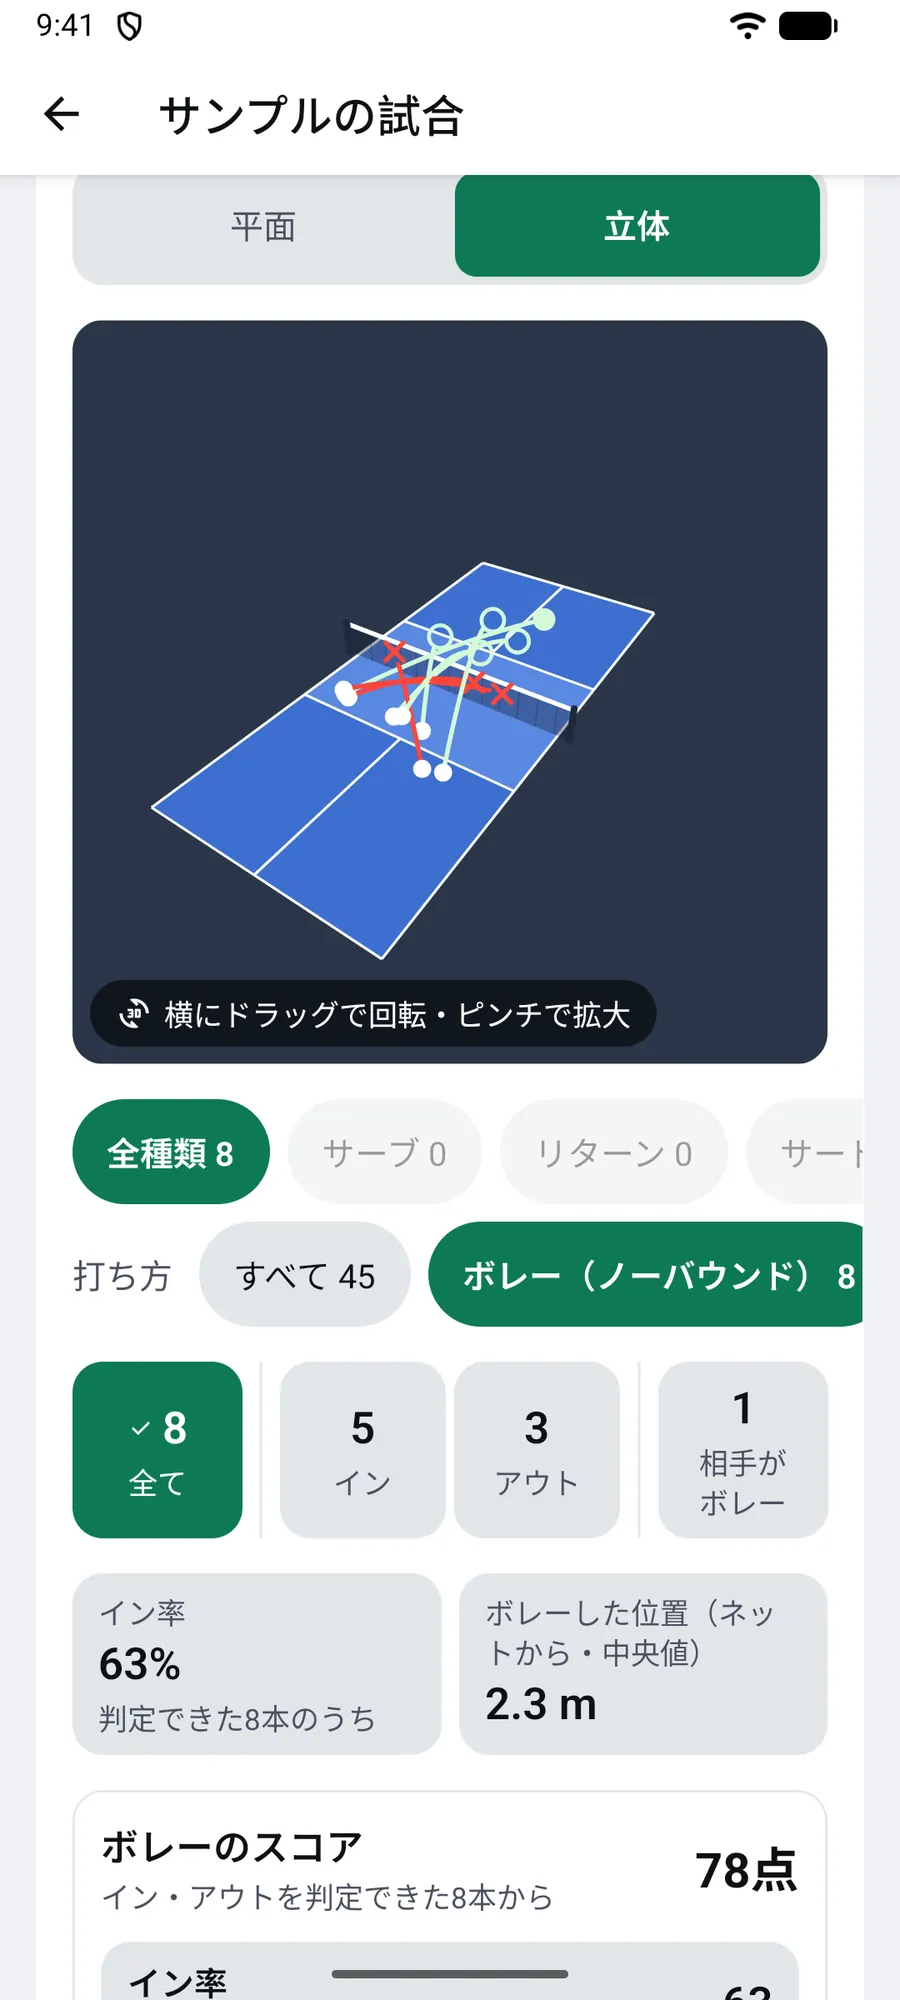
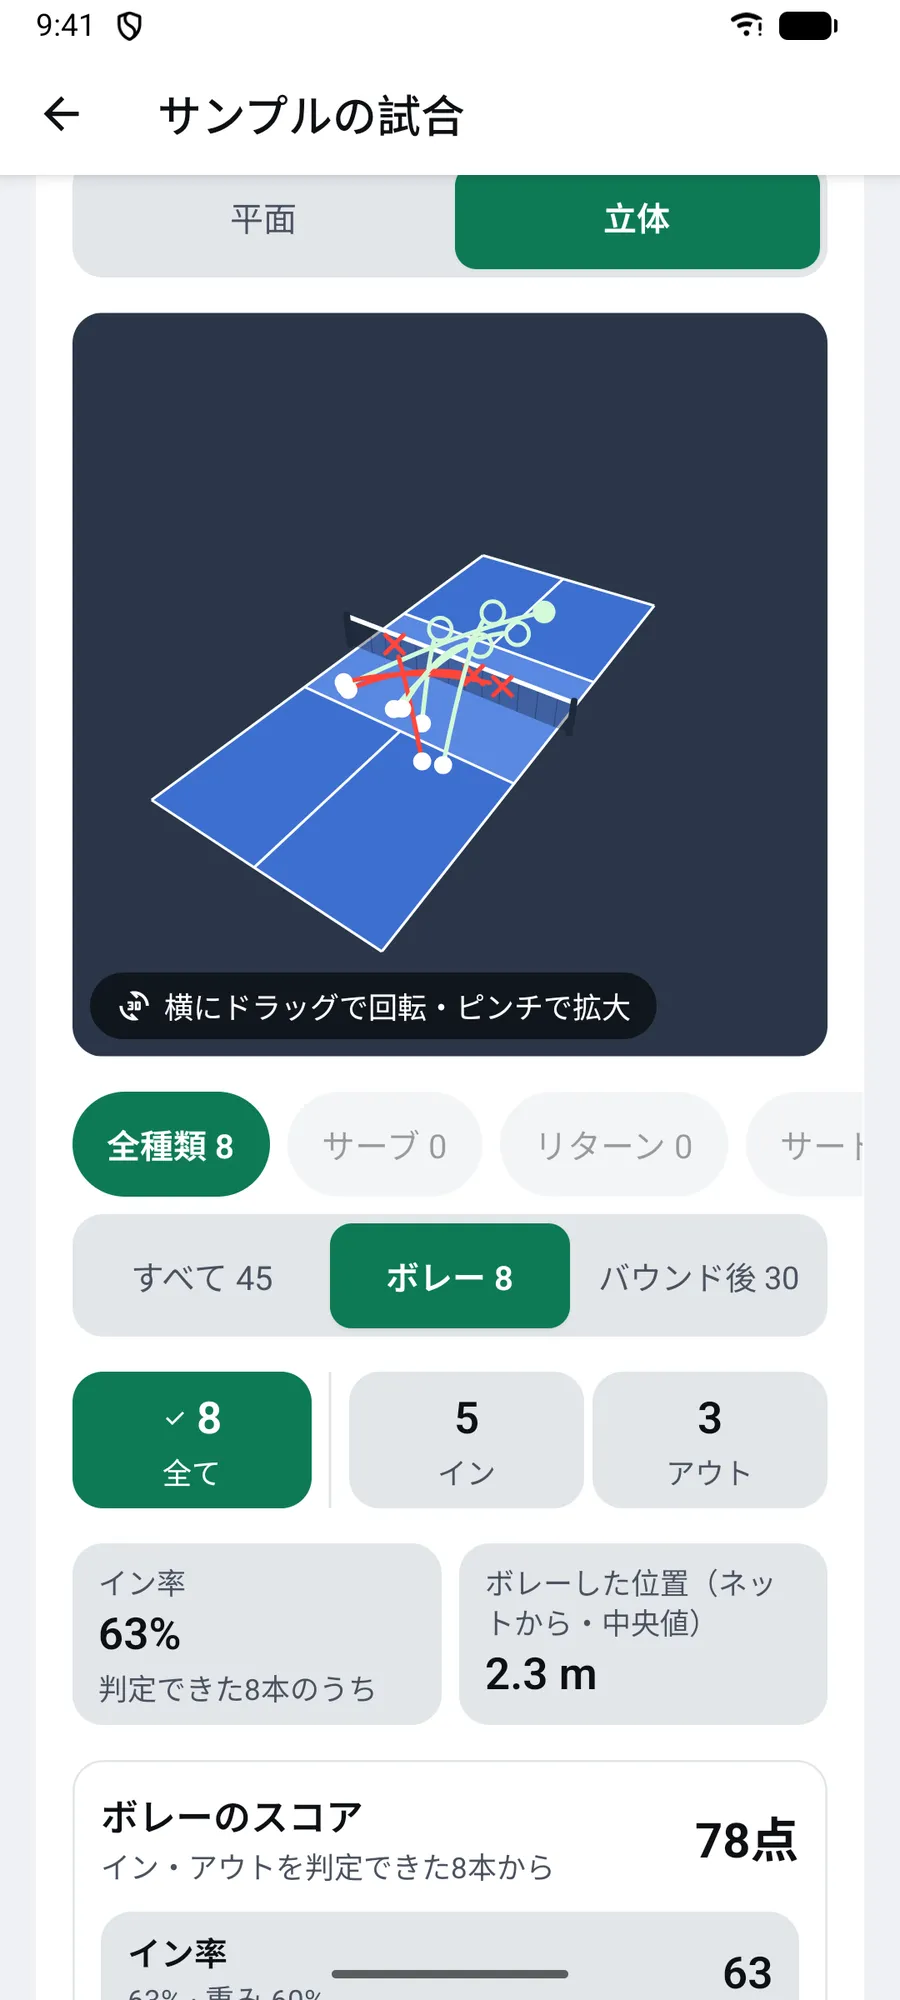
Pickle Up のページの見出しの下の文を「コーチがいなくても、自分の弱点が分かる。試合の動画から点を落としているショットを見つけ、次に練習することまで教えます。」にする。アプリの画像を、打ち方の3つの切り替え・「相手がボレー」なし・スコアの「自分たち／相手」と「勝ち」の新しい画面で撮り直し、共有用の画像も差し替える
Claude-Session: https://claude.ai/code/session_01RcorTwHLSLi3TqpLhpw8hm

diff --git a/ja/apps/pickle-up/index.html b/ja/apps/pickle-up/index.html
@@ -63,7 +63,7 @@
 <div class="wrap hero-grid">
 <div class="hero-copy">
 <h1><span class="phrase">撮るだけで</span><span class="phrase">次の試合が変わる</span></h1>
-<p class="lead">プレー中は、どこで点を落としているか分かりません。Pickle Up が動画からミスの傾向を数字で示し、次に練習することを教えます。</p>
+<p class="lead">コーチがいなくても、自分の弱点が分かる。試合の動画から点を落としているショットを見つけ、次に練習することまで教えます。</p>
 <div class="stores stores-hero"><span class="store"><img src="/images/apps/badges/app-store-ja.svg" alt="App Store からダウンロード" width="131" height="48"></span><span class="store"><img src="/images/apps/badges/google-play-ja.png" alt="Google Play で手に入れよう" width="161" height="48"></span></div><p class="stores-note">近日公開</p>
 </div>
 <div class="hero-media">
@@ -75,7 +75,7 @@
 <div class="wrap">
 <h2 class="section-title">Pickle Up でできること</h2>
 <article class="feature">
-<div class="feature-media"><div class="carousel carousel-single"><div class="carousel-track"><figure class="slide"><div class="phone"><img src="/images/apps/pickle-up/screens/score-ja.webp" alt="試合の画面。11対8のスコアと、読み上げたスコアコールの一覧" width="300" height="667" loading="lazy" decoding="async"></div><figcaption>試合中にコールしたスコアの一覧。11対8、41ラリーの試合です。</figcaption></figure></div></div></div>
+<div class="feature-media"><div class="carousel carousel-single"><div class="carousel-track"><figure class="slide"><div class="phone"><img src="/images/apps/pickle-up/screens/score-ja.webp" alt="試合の画面。自分たち11点・相手8点で勝ちの表示と、読み上げたスコアコールの一覧" width="300" height="667" loading="lazy" decoding="async"></div><figcaption>どちらが自分たちで、勝ったか負けたかがひと目で分かります。下は試合中に読み上げたスコアです。</figcaption></figure></div></div></div>
 <div class="feature-copy">
 <h3><span class="phrase">スコアはアプリが数えて、</span><span class="phrase">声でコールする</span></h3>
 <p>ラリーが終わるたびに「1-0-2」のようにスコアをコールします。サーブの順番もアプリが覚えているので、プレーを止めて数え直すことはありません。終わった試合はスコアと一緒に記録に残ります。</p>

diff --git a/en/apps/pickle-up/index.html b/en/apps/pickle-up/index.html
@@ -63,7 +63,7 @@
 <div class="wrap hero-grid">
 <div class="hero-copy">
 <h1><span class="phrase">Just film it.</span><span class="phrase">Play better next game.</span></h1>
-<p class="lead">Mid-game, you can’t see which shots cost you points. Pickle Up finds them in your video and tells you what to practise.</p>
+<p class="lead">No coach? You’ll still find your weak spots: the shots costing you points, and what to practise next.</p>
 <div class="stores stores-hero"><span class="store"><img src="/images/apps/badges/app-store-en.svg" alt="Download on the App Store" width="144" height="48"></span><span class="store"><img src="/images/apps/badges/google-play-en.png" alt="Get it on Google Play" width="161" height="48"></span></div><p class="stores-note">Coming soon</p>
 </div>
 <div class="hero-media">
@@ -75,7 +75,7 @@
 <div class="wrap">
 <h2 class="section-title">What it does</h2>
 <article class="feature">
-<div class="feature-media"><div class="carousel carousel-single"><div class="carousel-track"><figure class="slide"><div class="phone"><img src="/images/apps/pickle-up/screens/score-en.webp" alt="The match screen, with an 11–8 score and the calls made during the game" width="300" height="667" loading="lazy" decoding="async"></div><figcaption>The calls made during an 11–8 game of 41 rallies.</figcaption></figure></div></div></div>
+<div class="feature-media"><div class="carousel carousel-single"><div class="carousel-track"><figure class="slide"><div class="phone"><img src="/images/apps/pickle-up/screens/score-en.webp" alt="The match screen: won 11–8, with the calls made during the game" width="300" height="667" loading="lazy" decoding="async"></div><figcaption>See at a glance which side is yours and whether you won. Below are the calls made during play.</figcaption></figure></div></div></div>
 <div class="feature-copy">
 <h3>It keeps score and calls it out</h3>
 <p>After every rally it calls the score, like “1-0-2”. It keeps track of who serves, so nobody has to stop and recount. When the game ends, the score goes into your history.</p>

diff --git a/scripts/app_pages/pickle_up.py b/scripts/app_pages/pickle_up.py
@@ -31,7 +31,7 @@ JA = {
     'carousel': {'prev': '前の画面', 'next': '次の画面', 'slide': '{n}枚目'},
     'hero': {
         'title': ['撮るだけで', '次の試合が変わる'],
-        'lead': 'プレー中は、どこで点を落としているか分かりません。Pickle Up が動画からミスの傾向を数字で示し、次に練習することを教えます。',
+        'lead': 'コーチがいなくても、自分の弱点が分かる。試合の動画から点を落としているショットを見つけ、次に練習することまで教えます。',
         'screen': '3d-all',
         'screenAlt': 'サンプルの試合の画面。45本の打球を立体のコートに描き、イン率82%、ネットからの高さの中央値 +19cm を表示している',
     },
@@ -43,7 +43,7 @@ JA = {
                 'body': 'ラリーが終わるたびに「1-0-2」のようにスコアをコールします。サーブの順番もアプリが覚えているので、プレーを止めて数え直すことはありません。終わった試合はスコアと一緒に記録に残ります。',
                 'note': 'サイドアウト制とラリーポイント制に対応しています。コールは英語で、日本語にも切り替えられます。',
                 'slides': [
-                    ('score', '試合中にコールしたスコアの一覧。11対8、41ラリーの試合です。', '試合の画面。11対8のスコアと、読み上げたスコアコールの一覧'),
+                    ('score', 'どちらが自分たちで、勝ったか負けたかがひと目で分かります。下は試合中に読み上げたスコアです。', '試合の画面。自分たち11点・相手8点で勝ちの表示と、読み上げたスコアコールの一覧'),
                 ],
             },
             {
@@ -163,7 +163,7 @@ EN = {
     'carousel': {'prev': 'Previous screen', 'next': 'Next screen', 'slide': 'Screen {n}'},
     'hero': {
         'title': ['Just film it.', 'Play better next game.'],
-        'lead': 'Mid-game, you can’t see which shots cost you points. Pickle Up finds them in your video and tells you what to practise.',
+        'lead': 'No coach? You’ll still find your weak spots: the shots costing you points, and what to practise next.',
         'screen': '3d-all',
         'screenAlt': 'The sample match: 45 shots drawn on a 3D court, with an 82% in rate and a median height over the net of +19 cm',
     },
@@ -175,7 +175,7 @@ EN = {
                 'body': 'After every rally it calls the score, like “1-0-2”. It keeps track of who serves, so nobody has to stop and recount. When the game ends, the score goes into your history.',
                 'note': 'Side-out and rally scoring. Calls are in English, and you can switch them to Japanese.',
                 'slides': [
-                    ('score', 'The calls made during an 11–8 game of 41 rallies.', 'The match screen, with an 11–8 score and the calls made during the game'),
+                    ('score', 'See at a glance which side is yours and whether you won. Below are the calls made during play.', 'The match screen: won 11–8, with the calls made during the game'),
                 ],
             },
             {
